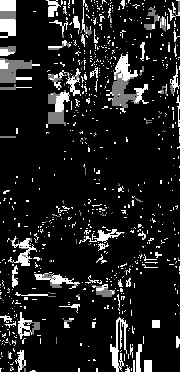
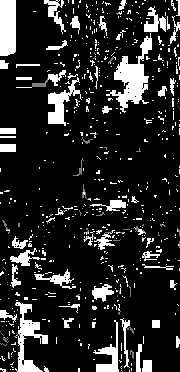
Optymalizacja

diff --git a/preprocessing/granulation.py b/preprocessing/granulation.py
@@ -1,15 +1,59 @@
 import numpy as np
+from numba import njit, prange
+
 
 def colour_nearness_rgb(color1, color2, threshold):
     '''Funkcja do sprawdzania podobiensta kolorow'''
     return np.linalg.norm(np.array(color1) - np.array(color2)) < threshold
 
 
+# def create_granules_color(image, threshold: int):
+#     '''Funkcja tworzaca granule'''
+#
+#     height, width = image.shape[:2]
+#     granules = np.full((height, width), None)
+#     initial_colors = dict()
+#     bounding_boxes = dict()
+#     granule_index = 0
+#
+#     for y in range(height):
+#         if y % 100 == 0 or y == height - 1: print(f"Processing row: {y}/{height}")
+#         for x in range(width):
+#             if np.all(image[y][x]) == 0 or granules[y][x] is not None:
+#                 continue
+#
+#             neighbor_found = False
+#             queue = [(y, x)]
+#             while queue:
+#                 current_y, current_x = queue.pop(0)
+#                 for (off_set_y, off_set_x) in [(-1, -1), (-1, 0), (-1, 1), (0, -1), (0, 1), (1, -1), (1, 0), (1, 1)]:
+#                     neighbor_y, neighbor_x = current_y + off_set_y, current_x + off_set_x
+#                     if 0 <= neighbor_y < height and 0 <= neighbor_x < width and np.all(
+#                             image[neighbor_y][neighbor_x]) != 0:
+#                         if colour_nearness_rgb(image[current_y][current_x], image[neighbor_y][neighbor_x],
+#                                                threshold) and granules[neighbor_y][neighbor_x] is None:
+#                             neighbor_found = True
+#
+#                             initial_colors[granule_index] = image[y][x]
+#                             bounding_boxes[granule_index] = [y, x, y, x] # [minY, minX, maxY, maxX]
+#
+#                             granules[neighbor_y][neighbor_x] = granule_index
+#                             queue.append((neighbor_y, neighbor_x))
+#                             bounding_boxes[granule_index][0] = min(bounding_boxes[granule_index][0], neighbor_y)  # minY
+#                             bounding_boxes[granule_index][1] = min(bounding_boxes[granule_index][1], neighbor_x)  # minX
+#                             bounding_boxes[granule_index][2] = max(bounding_boxes[granule_index][2], neighbor_y)  # maxY
+#                             bounding_boxes[granule_index][3] = max(bounding_boxes[granule_index][3], neighbor_x)  # maxX
+#
+#             if neighbor_found:
+#                 granule_index += 1
+#     return granules, initial_colors, bounding_boxes
+
+
 def create_granules_color(image, threshold: int):
     '''Funkcja tworzaca granule'''
 
     height, width = image.shape[:2]
-    granules = np.full((height, width), None)
+    granules = np.full((height, width), -1)
     initial_colors = dict()
     bounding_boxes = dict()
     granule_index = 0
@@ -17,12 +61,9 @@ def create_granules_color(image, threshold: int):
     for y in range(height):
         if y % 100 == 0 or y == height - 1: print(f"Processing row: {y}/{height}")
         for x in range(width):
-            if np.all(image[y][x]) == 0 or granules[y][x] is not None:
+            if np.all(image[y][x]) == 0 or granules[y][x] != -1:
                 continue
 
-            # granules[y, x] = granule_index
-            # initial_colors[granule_index] = image[y][x]
-            # bounding_boxes[granule_index] = [y, x, y, x]  # [minY, minX, maxY, maxX]
             neighbor_found = False
             queue = [(y, x)]
             while queue:
@@ -32,11 +73,11 @@ def create_granules_color(image, threshold: int):
                     if 0 <= neighbor_y < height and 0 <= neighbor_x < width and np.all(
                             image[neighbor_y][neighbor_x]) != 0:
                         if colour_nearness_rgb(image[current_y][current_x], image[neighbor_y][neighbor_x],
-                                               threshold) and granules[neighbor_y][neighbor_x] is None:
+                                               threshold) and granules[neighbor_y][neighbor_x] == -1:
                             neighbor_found = True
 
                             initial_colors[granule_index] = image[y][x]
-                            bounding_boxes[granule_index] = [y, x, y, x]
+                            bounding_boxes[granule_index] = [y, x, y, x] # [minY, minX, maxY, maxX]
 
                             granules[neighbor_y][neighbor_x] = granule_index
                             queue.append((neighbor_y, neighbor_x))
@@ -47,8 +88,7 @@ def create_granules_color(image, threshold: int):
 
             if neighbor_found:
                 granule_index += 1
-    return (granules, initial_colors, bounding_boxes)
-
+    return granules, initial_colors, bounding_boxes
 
 def form_spatiotemporal_granules(frames, threshold):
     prev_taus = []
@@ -79,7 +119,9 @@ def recurrent_function(granule_index, current_tau_granules, current_granule_colo
 
     for prev_granule_index in range(max_prev + 1):
         is_overlap = is_overlapping(current_granule_bbox, prev_tau[2][prev_granule_index])
-        if colour_nearness_rgb(current_granule_colour, prev_tau[1][prev_granule_index], threshold) and is_overlap:
+        if not is_overlap:
+            continue
+        if colour_nearness_rgb(current_granule_colour, prev_tau[1][prev_granule_index], threshold):
             prev_tau[1][prev_granule_index] = current_granule_colour
             merge_granules(granule_index, prev_granule_index, prev_tau[0], prev_tau[2][prev_granule_index])
             prev_colour = prev_tau[1][prev_granule_index]
@@ -94,7 +136,6 @@ def is_overlapping(bbox1, bbox2):
         return False
     return True
 
-
 def merge_granules(granule_index, prev_granule_index, granules, bounding_box):
     minY, minX, maxY, maxX = bounding_box
     for y in range(minY, maxY + 1):
@@ -103,21 +144,28 @@ def merge_granules(granule_index, prev_granule_index, granules, bounding_box):
                 granules[y][x] = granule_index
 
 
+@njit
 def find_max_granule_index(granules):
-    max = 0
+    max_index = 0
     for y in range(len(granules)):
         for x in range(len(granules[y])):
-            if granules[y][x] is None: continue
-            if granules[y][x] > max:
-                max = granules[y][x]
-    return max
+            max_index = max(granules[y][x], max_index)
+            # if granules[y][x] is None: continue
+            # if granules[y][x] > max:
+            #     max = granules[y][x]
+
+    return max_index
 
 
 def form_rgb_d_granules(sp_t_granules, sp_t_initial_colors, sp_t_bounding_boxes, threshold):
-    sp_t_image = np.zeros_like(sp_t_granules)
+    # sp_t_image = np.zeros_like(sp_t_granules)
+
+    height, width = sp_t_granules.shape
+    sp_t_image = np.zeros((height, width, 3), dtype=np.uint8)
+
     for y in range(sp_t_image.shape[0]):
         for x in range(sp_t_image.shape[1]):
-            if sp_t_granules[y, x] is not None:
+            if sp_t_granules[y, x] != -1:
                 sp_t_image[y, x] = sp_t_initial_colors[sp_t_granules[y, x]]
 
     granules, initial_colors, bounding_boxes = create_granules_color(sp_t_image, threshold)

diff --git a/utils/visualization.py b/utils/visualization.py
@@ -30,12 +30,12 @@ class Visualization:
             result = np.zeros_like(frames[0])
             for y in range(frames[0].shape[0]):
                 for x in range(frames[0].shape[1]):
-                    if granules[y, x] is not None:
+                    if granules[y, x] != -1:
                         result[y, x] = initial_colors[granules[y, x]]
             cv2.imwrite(output_path, result)
 
     @staticmethod
-    def visualize_spatio_color_granules(image, output_path, threshold=2, rgb=True, bbox=True, bbox_color=(0, 0, 0)):
+    def visualize_spatio_color_granules(image, output_path, threshold=2, bbox=True, bbox_color=(0, 0, 0)):
         if type(image).__name__ == 'str':
             image = cv2.imread(image)
 
@@ -51,7 +51,7 @@ class Visualization:
             result = np.zeros_like(image)
             for y in range(image.shape[0]):
                 for x in range(image.shape[1]):
-                    if granules[y, x] is not None:
+                    if granules[y, x] != -1:
                         result[y, x] = initial_colors[granules[y, x]]
             cv2.imwrite(output_path, result)
 

diff --git a/models/unsupervised_tracking.py b/models/unsupervised_tracking.py
@@ -53,10 +53,10 @@ def object_tracking(frames: np.array, output_path: str, threshold: int = 2, p: i
 
         rule_base, features = generate_rule_base(current_spatio_colour_granules, spatio_temporal_gib, rgb_gib, d_gib)
 
-        # '''for tests'''
-        # rule_base_scaled = (rule_base / 2 * 255).astype(np.uint8)
-        # cv2.imwrite(f"../results/spoon/test/frame_{frame_index}.jpg", rule_base_scaled)
-        # '''for tests'''
+        '''for tests'''
+        rule_base_scaled = (rule_base / 2 * 255).astype(np.uint8)
+        cv2.imwrite(f"../results/spoon/rule_base/frame_{frame_index}.jpg", rule_base_scaled)
+        '''for tests'''
 
         coverage, test_flow_graph = compute_rule_base_coverage(flow_graph, features)
         print("coverage: ", coverage)

diff --git a/models/rulebase.py b/models/rulebase.py
@@ -55,7 +55,7 @@ def generate_rule_base(spatio_color_gib, spatio_temporal_gib, rgb_gib, d_gib):
     for y in range(height):
         for x in range(width):
             label = spatio_color_gib[0][y][x]
-            if label is None: continue
+            if label == -1: continue
             if result_object[label] == 1:
                 rule_base[y][x] = 2
             elif result_background[label] == 1:
@@ -88,7 +88,7 @@ def calculate_attribute(spatio_color_granule, granules_to_calculate, y, x, bbox)
     return get_attribute(spatio_color_granule, granule, intersection)
 
 
-@njit()
+@njit
 def get_attribute(spatio_color_granule, granule, intersection):
     """
     :param spatio_color_granule:

diff --git a/main.py b/main.py
@@ -1,6 +1,21 @@
+import time
+
+import cv2
+
 from models.unsupervised_tracking import object_tracking
 from preprocessing import video_loader
+from utils.visualization import Visualization
 
 video = video_loader.load_frames_from_mp4('../data/spoon.mp4')[1:]
 
+
 object_tracking(video, "../results/spoon/tracked_spoon.mp4", 50, 3)
+
+# start_time = time.time()
+# Visualization.visualize_spatiotemporal_granules(video[1:5], "../results/spoon/test/2.jpg", 3, False)
+# Visualization.visualize_spatio_color_granules(video[5], "../results/spoon/test/color_1.jpg", 50, False)
+#
+# end_time = time.time()
+#
+# elapsed_time = end_time - start_time
+# print(f"Czas wykonania: {elapsed_time:.5f} sekund")
